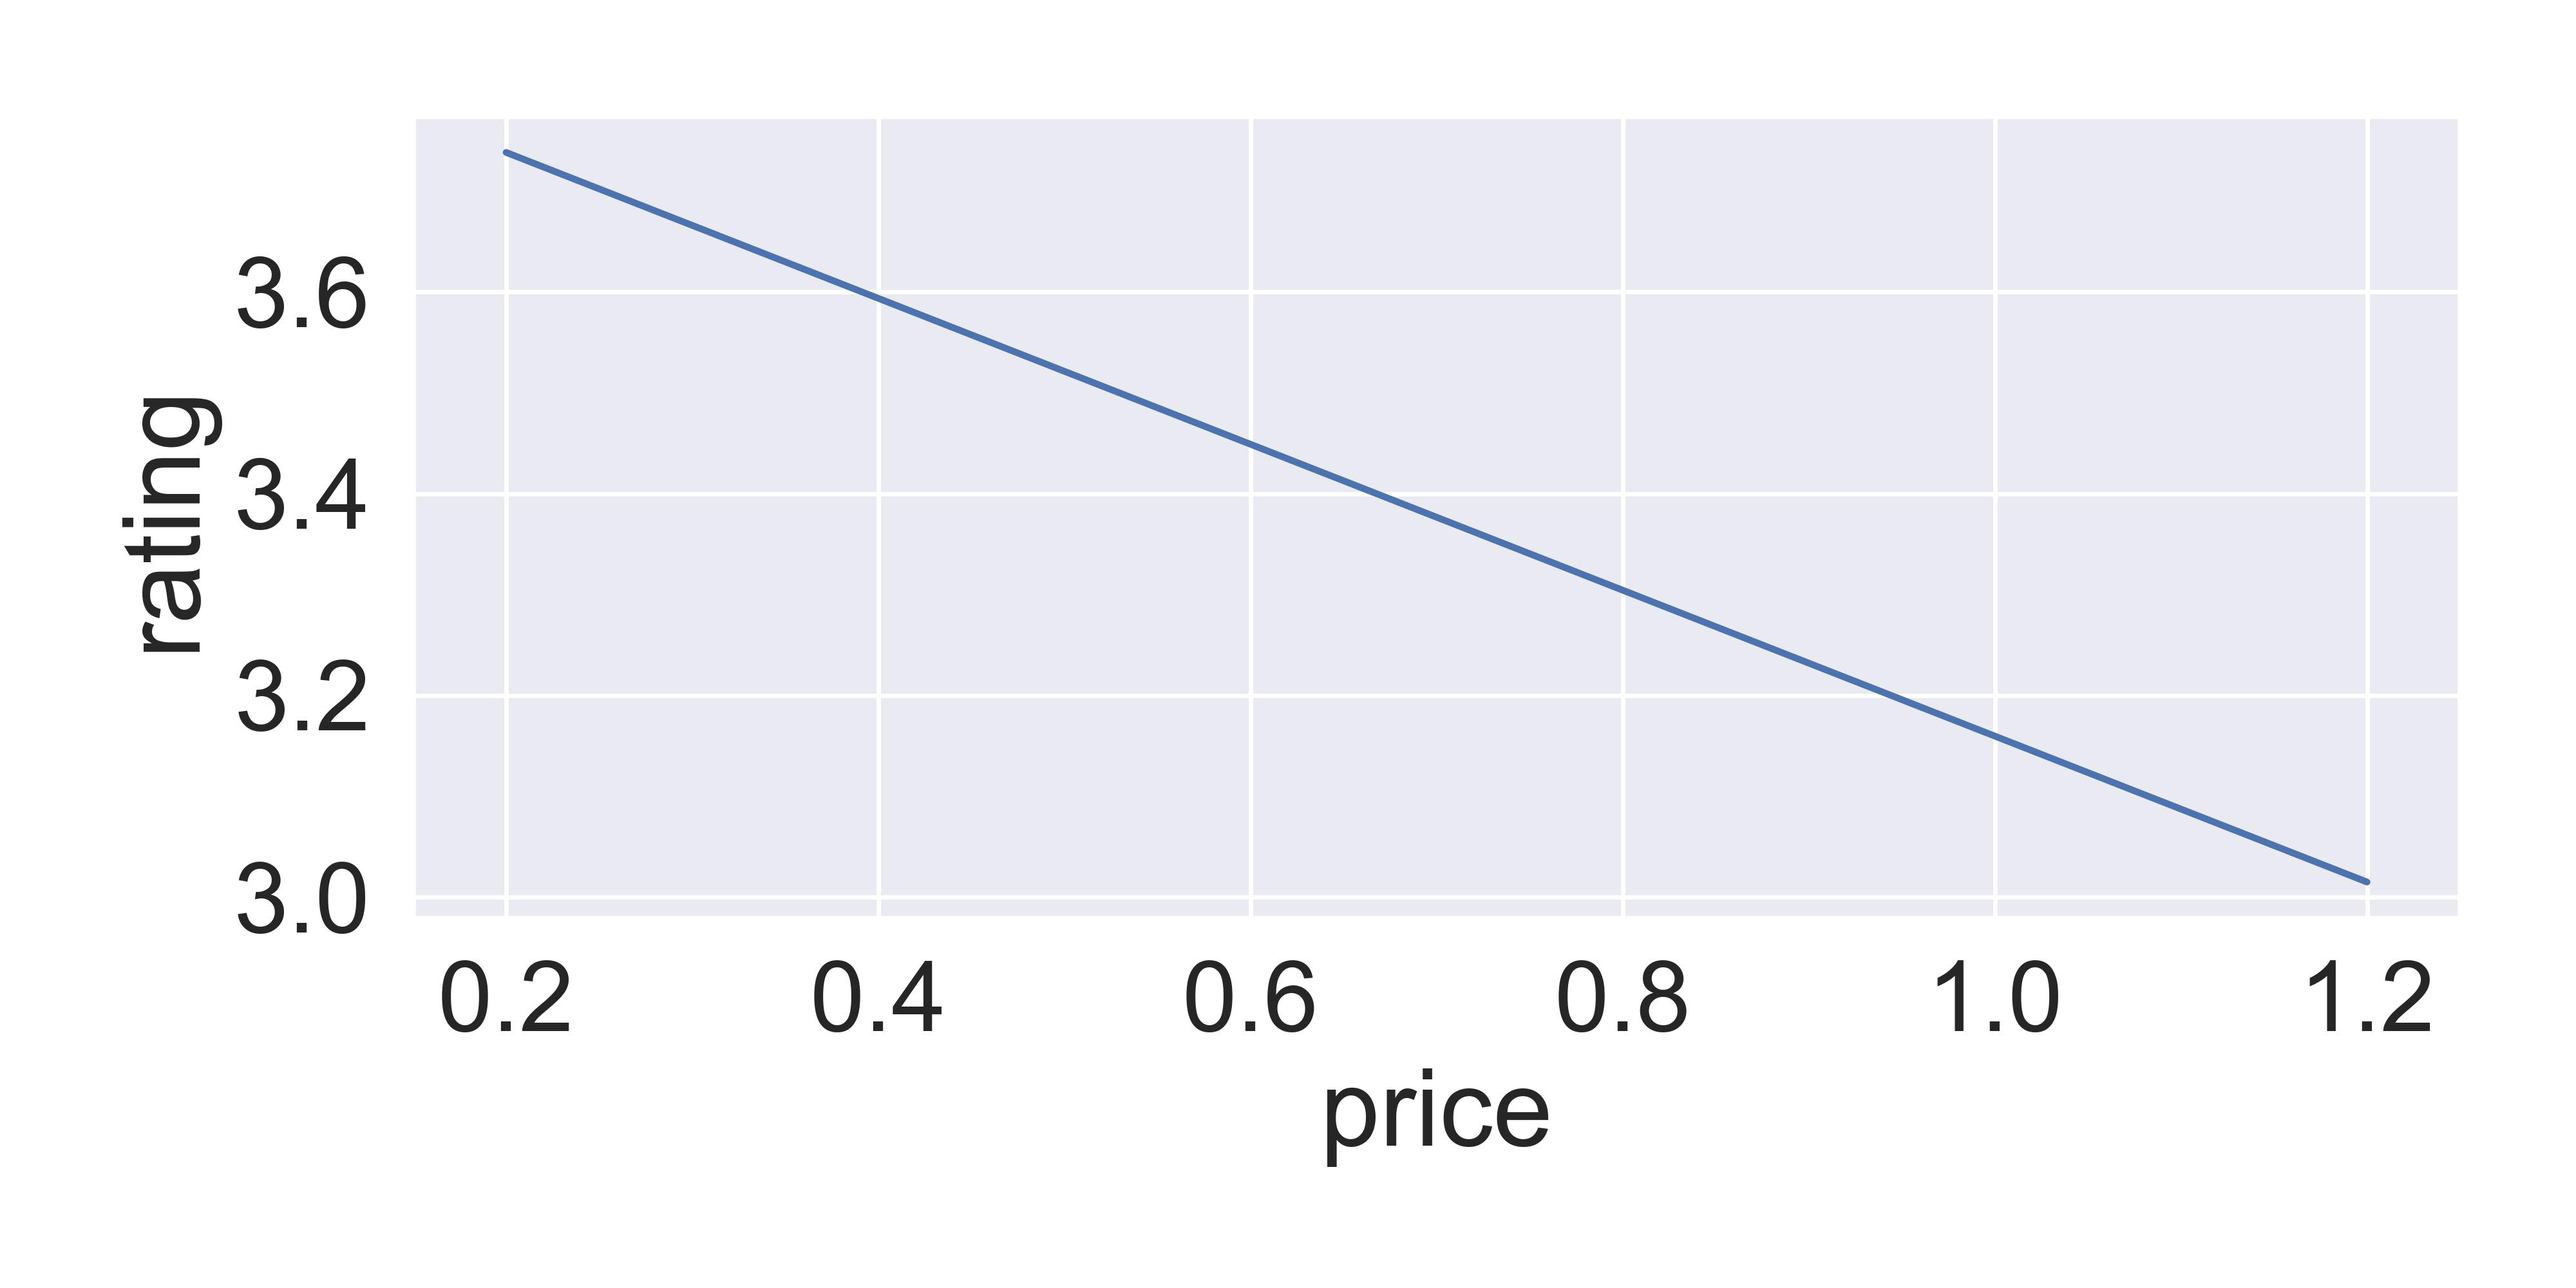
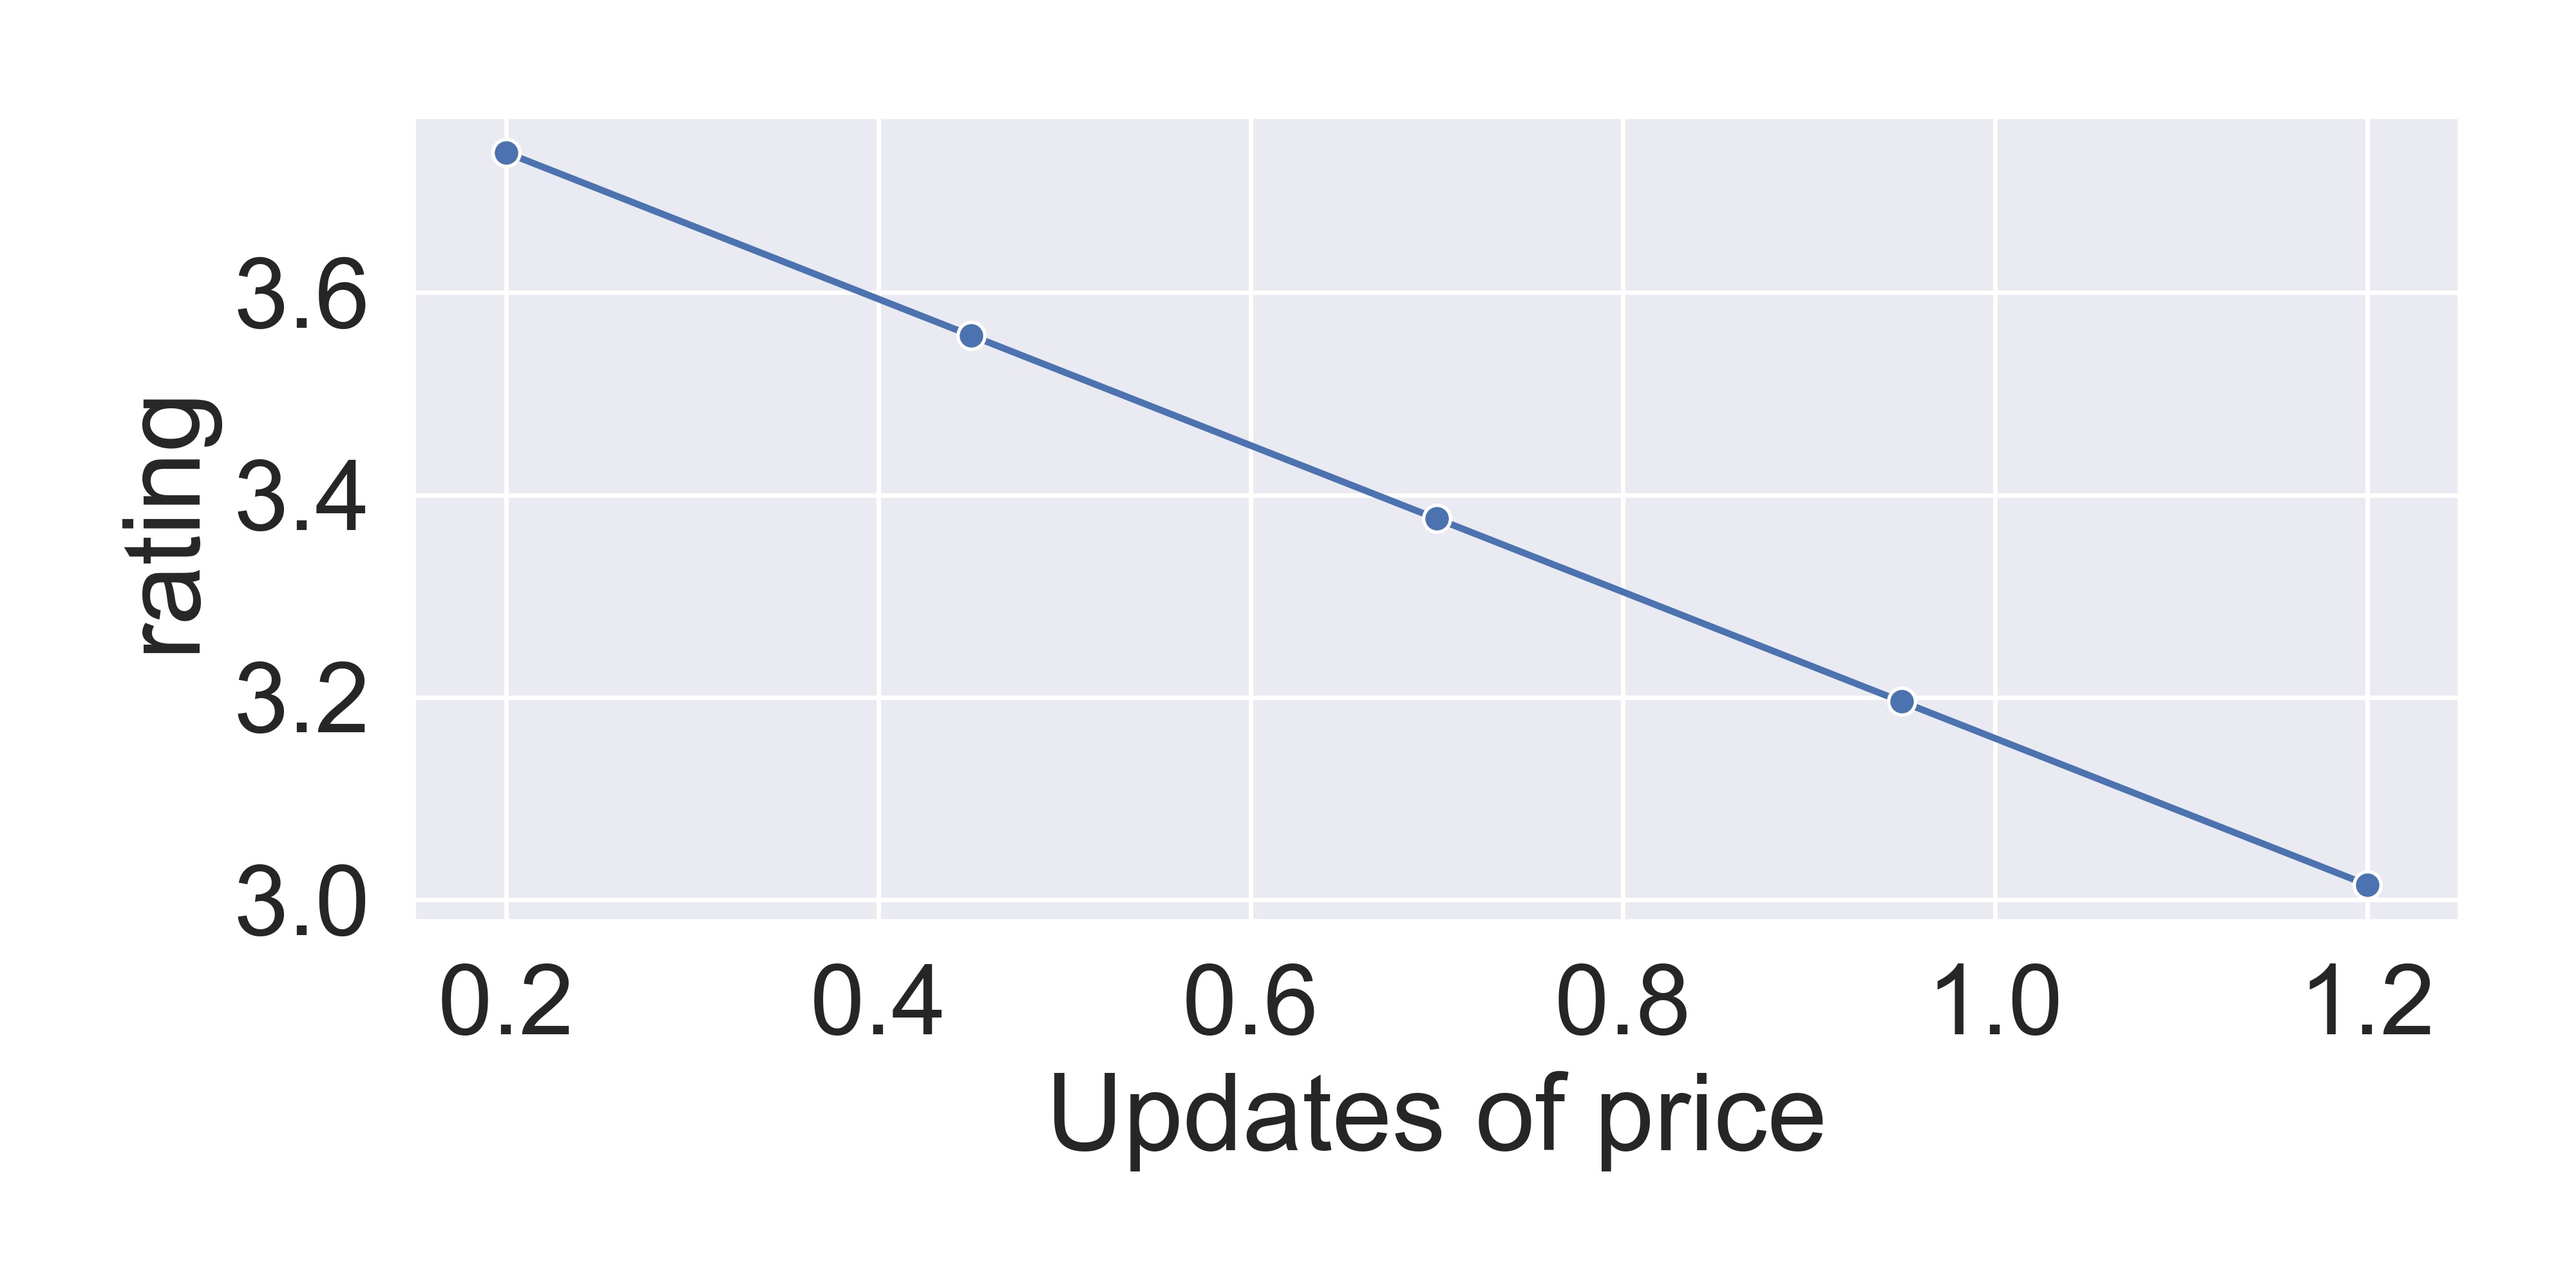
add vary_dropdown button and update the vary updates figure

diff --git a/app/templates/query_input_what_if.html b/app/templates/query_input_what_if.html
@@ -399,6 +399,21 @@
                 });
             </script>
         </div>
+
+        <div class = 'span-col-5'>
+            <input class="button-4" type="text" id="vary dropdown value" name="relview" value="Select a groupby value:" disabled
+            style="background-color: rgba(216, 216, 216, 0.548); width: 200px">
+            <!-- <select class = 'button' name="vary-dropdown" id="vary-dropdown"> -->
+                <!-- <option value="blank"></option> -->
+                <!-- {% for option in session['vary_dropdown'] %}
+                <option value="{{ option }}">{{ option }}</option>
+                {% endfor %} -->
+            <!-- </select> -->
+            <div style="display: inline;">
+                {{form.vary_dropdown(class="button", id="vary-dropdown")}}
+            </div>
+        </div>
+
         <div class="span-col-5">
             <div style="display: inline; float: left;">
             <div class="help-tip" id="help-tip-whatif2">
@@ -689,7 +704,9 @@
             {%- endif %}
 
             {%- if show_vary_updates -%}
-
+            <div class="bold_title">
+                Update Query View
+            </div>
             <!-- <div class="w3-container w3-cell"> -->
             <div id="bar-out-2">
                 <img id="bar" src="/static/line_graph.jpg" style="

diff --git a/app/main/views.py b/app/main/views.py
@@ -121,35 +121,6 @@ def parse_sql_query2(query):
 
     return results
 
-    
-#parse function for when and for vary update dropdown
-def parse_sql_query2(query):
-    parsed_query = sqlparse.parse(query)[0]
-    results = []
-
-    def process_token(token):
-        if isinstance(token, Identifier):
-            for child_token in token.tokens:
-                if isinstance(child_token, Function):
-                    function_name = child_token.get_name()
-                    attribute_name = child_token.get_parameters()[0].value
-                    attribute_name = attribute_name.split('.')[-1]
-                    results.append((function_name.upper(), attribute_name))
-                    break
-
-    for token in parsed_query.tokens:
-        if isinstance(token, IdentifierList):
-            for identifier in token.get_identifiers():
-                process_token(identifier)
-                # Add the identifier name to the results list
-                results.append(identifier.get_real_name())
-        if token.value.upper() == 'FROM':
-            break
-        else:
-            process_token(token)
-
-    return results
-
 #function used to split when and for conditions:
 def split_condition(data):
     #input: FOR/WHEN data from UI
@@ -325,10 +296,19 @@ update query has been added to the earlier function with a boolean isUpdate para
 
 def get_vary_update_bar_plot(df_graph, update_attrs_vary, attr_x):
     plt.figure(figsize=(8,4))
-    ax = sns.lineplot(data=df_graph,x = update_attrs_vary,y=attr_x, palette='Set2')
+    ax = sns.lineplot(data=df_graph,x = update_attrs_vary,y=attr_x, marker = 'o', palette='Set2')
     #out_filename = 'line_graph1.jpg'
     #plt.xlabel('Price (x)')
+    ax.set_xlabel('Updates of '+update_attrs_vary)
+    ax.set_ylabel(attr_x)
+    # if selected_value != 'blank':
+    #     ax.set_title(f'Vary updates view for group"{selected_value}"')
+    #ax.legend(title='Legend')
     fig = ax.get_figure()
+
+    # Add labels to data points
+    # for x, y in zip(df_graph[update_attrs_vary], df_graph[attr_x]):
+    #     ax.text(x, y, f'{y:.2f}', ha='center', va='bottom')
     fig.tight_layout()
     fig.savefig('app/static/line_graph.jpg', dpi=500)
     print("generate new graph")
@@ -467,15 +447,17 @@ def query_input_what_if():
         #     causal_graph=causal_graph, )
 
         query = form.use.data
-        update_button = parse_sql_query(query)
+        update_button = parse_sql_query2(query)
+
 
         session['update_button'] = update_button
+        #print('update_button',update_button)
         dropdown_attr = update_button[0]
         vary_dropdown = df[dropdown_attr].unique()
         if dropdown_attr in ['category','brand','color']:
             vary_dropdown = le_dict[dropdown_attr].inverse_transform(vary_dropdown)
-        session['vary_dropdown'] = vary_dropdown
-        
+        session['vary_dropdown'] = tuple(vary_dropdown)
+
     elif 'run' in request.form:
         start = time.time()
         print('RUN button')
@@ -489,7 +471,7 @@ def query_input_what_if():
 
         update_button = session.get('update_button', None)
 
-        q_type = update_button[0][0].lower()
+        q_type = update_button[1][0].lower()
         #generate default_plot
 
         #update_attr_x = form.update_attrs.data
@@ -569,7 +551,8 @@ def query_input_what_if():
                 update_const_vary_to = float(request.form.get('update_const_vary_to'))
 
                 update_sign_vary = request.form.get('update_sign_vary')
-
+                selected_value = request.form.get('vary_dropdown')
+                print('selected_value',selected_value.lower())
                 # after_update_val_from = get_updated_value(update_sign_vary, update_attrs_vary,update_const_vary_from,df)
                 # after_update_val_to = get_updated_value(update_sign_vary, update_attrs_vary,update_const_vary_to,df)
                 ###To Change:
@@ -585,7 +568,13 @@ def query_input_what_if():
             preval,prevallst_cate = split_condition(when_data)
             #print(df,le_dict,q_type,attr_x,preval,prevallst_cate,[],[],[update_attrs_vary],update_sign_vary,update_const_val_ls)
             try:
-                score_ls = hyperAPI.vary_output(df,le_dict,q_type,attr_x,preval,prevallst_cate,[],[],[update_attrs_vary],update_sign_vary,update_const_val_ls)
+                if selected_value != 'blank':
+                    dropdown_attr = update_button[0].lower()
+                    print('ADDDDD')
+                    #print(df,le_dict,q_type,attr_x,preval+[dropdown_attr],prevallst_cate+[selected_value],[],[],[update_attrs_vary],update_sign_vary,update_const_val_ls)
+                    score_ls = hyperAPI.vary_output(df,le_dict,q_type,attr_x,preval+[dropdown_attr],prevallst_cate+[selected_value],[],[],[update_attrs_vary],update_sign_vary,update_const_val_ls)
+                else:
+                    score_ls = hyperAPI.vary_output(df,le_dict,q_type,attr_x,preval,prevallst_cate,[],[],[update_attrs_vary],update_sign_vary,update_const_val_ls)
             except:
                 error_msg = "Bad vary update input, try the sample update"
                 return render_template('query_input_what_if.html', form=form, errorVary=error_msg)
@@ -637,7 +626,7 @@ def query_input_what_if():
         #items = session.get('items', None)
         #default_plot = session.get('items', None)
         #final_run = session.get('final_run',None)
-        
+        form.set_vary_dropdown_choices(session.get('vary_dropdown', ''))
         # return render_template('query_input_what_if.html', form = form,
         #     causal_graph=casual_graph, attr_list = attr_list, items = items, len_item = len(attr_list), default_plot = default_plot,final_run=final_run)
         return render_template('query_input_what_if.html', form = form, causal_graph=causal_graph, final_run=final_run, vary_updates=vary_updates, show_vary_updates = show_vary_updates,specConst= specConst)

diff --git a/app/main/forms.py b/app/main/forms.py
@@ -82,6 +82,12 @@ class InputWhatIfForm(FlaskForm):
         ('+','+'),
         ('x','x')
     ])
+
+    vary_dropdown = SelectField('vary-dropdown',choices=[('blank','')])
+
+    def set_vary_dropdown_choices(self, vary_dropdown):
+        self.vary_dropdown.choices = [('blank','')]+[(v, v) for v in vary_dropdown]
+
     '''
     for_attrs = SelectField('ForAttrs',choices=[
         ('rtng','Rtng'),
